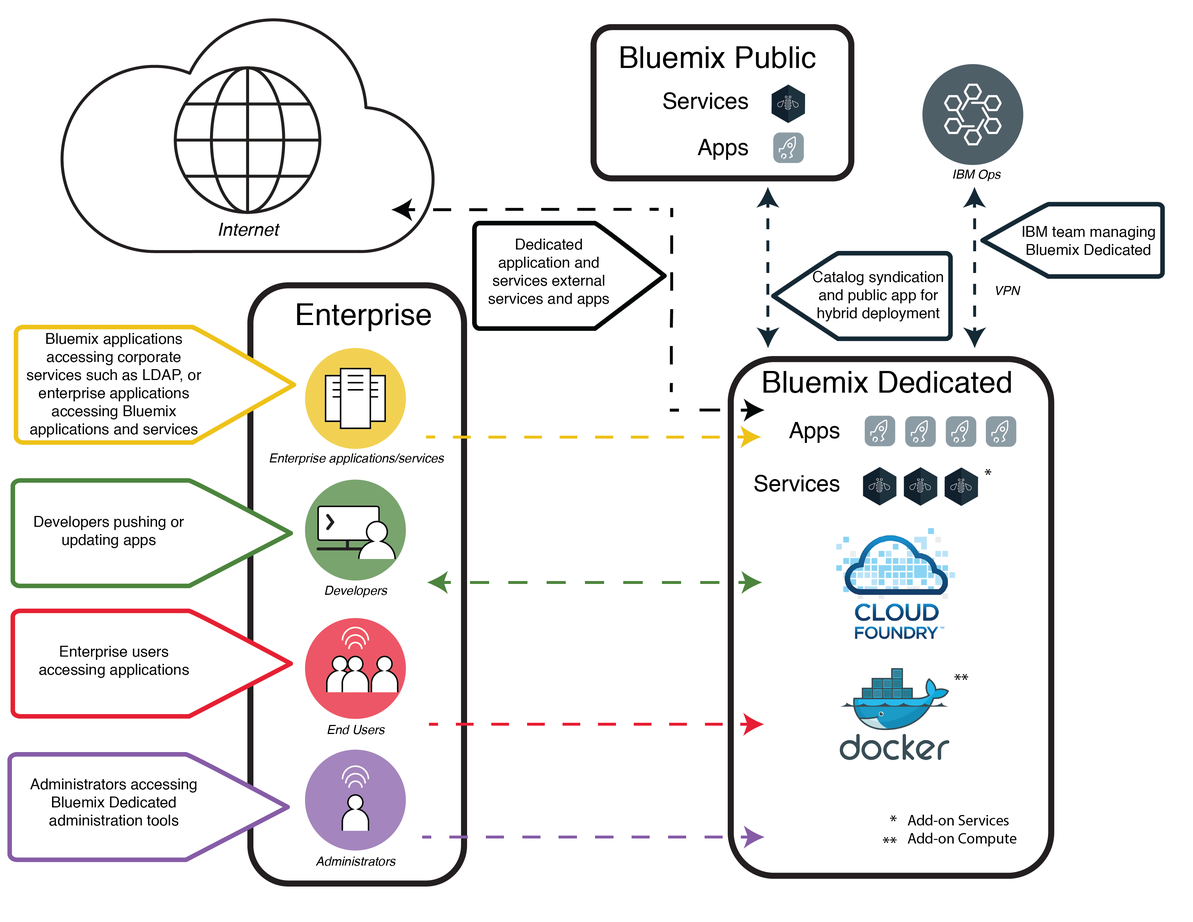
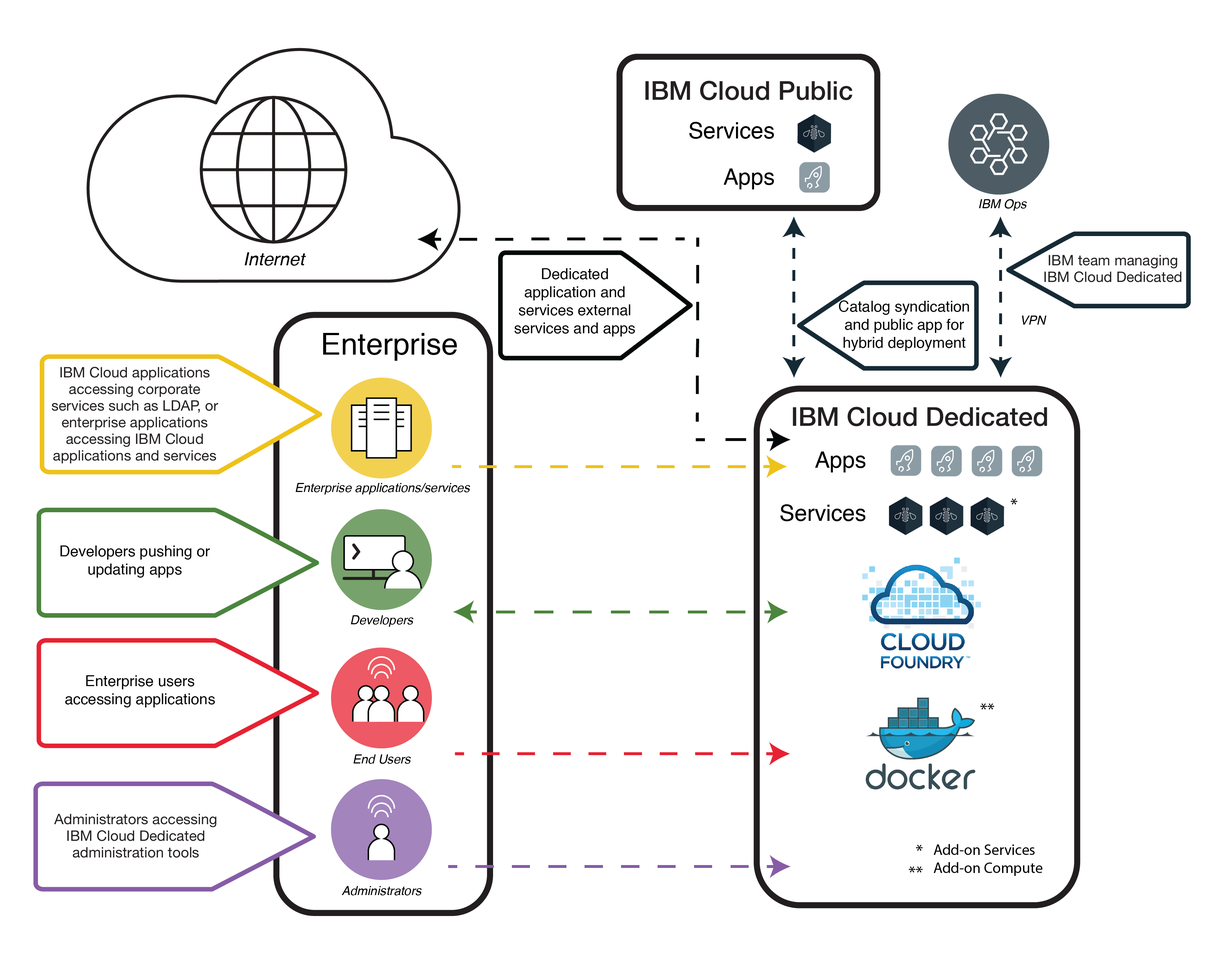
Rebrand

Changed region(s): [[0.0, 0.0, 0.9988, 0.9604], [0.4682, 0.8984, 0.5618, 0.9294], [0.0624, 0.2169, 0.0936, 0.2478]]

diff --git a/index.md b/index.md
@@ -6,7 +6,7 @@ copyright:
 
   years: 2015, 2017
 
-lastupdated: "2017-10-02"
+lastupdated: "2017-08-09"
 
 ---
 
@@ -16,7 +16,7 @@ lastupdated: "2017-10-02"
 {: #dedicated}
 
 
-{{site.data.keyword.Bluemix}} is an open-standards, cloud-based platform for building, running, and managing applications. With {{site.data.keyword.Bluemix_dedicated_notm}}, you get the power and simplicity of {{site.data.keyword.Bluemix_notm}}&mdash;in your own dedicated SoftLayer environment that is securely connected to both the {{site.data.keyword.Bluemix_notm}} Public environment and your own network.
+{{site.data.keyword.Bluemix}} is an open-standards, cloud-based platform for building, running, and managing applications. With {{site.data.keyword.Bluemix_dedicated_notm}}, you get the power and simplicity of {{site.data.keyword.Bluemix_notm}} &mdash; in your own dedicated SoftLayer environment that is securely connected to both the {{site.data.keyword.Bluemix_notm}} Public environment and your own network.
 {:shortdesc}
 
 All dedicated deployments of {{site.data.keyword.Bluemix_notm}} include the following benefits and features at no additional cost: VPN, private virtual local area network (VLAN), firewall, connectivity with your LDAP, ability to leverage existing on-premises databases and apps, 24/7 on-site security, dedicated hardware, and standard support.
@@ -33,14 +33,16 @@ In addition, there is a set of services and components that are included or opti
 | Included | [{{site.data.keyword.autoscaling}}](/docs/services/Auto-Scaling/index.html) | Dynamically increase or decrease the compute capacity of your application based on policies. With this service, you have unlimited use in your {{site.data.keyword.Bluemix_dedicated_notm}} environment. Note: Auto-scaling currently only works with Cloud Foundry runtimes |
 |Optional | [{{site.data.keyword.apiconnect_short}}](/docs/services/apiconnect/index.html) | {{site.data.keyword.apiconnect_long}} integrates {{site.data.keyword.APIM}} and IBM StrongLoop into a single offering that provides a comprehensive solution to create, run, manage, and enforce APIs and microservices. |
 |Optional | [{{site.data.keyword.cloudant}}](/docs/services/Cloudant/index.html#Cloudant) | {{site.data.keyword.cloudant}} provides access to a fully managed NoSQL JSON data layer that's always on. This service is compatible with CouchDB, and accessible through a simple to use HTTP interface for mobile and web application models. |
-|Optional | [{{site.data.keyword.containershort}}](/docs/containers/container_index.html) | Run Docker containers on {{site.data.keyword.Bluemix_dedicated_notm}}. Containers are virtual software objects that include all of the elements that an app needs to run. A container has the benefits of resource isolation and allocation, but is more portable and efficient than, for example, a virtual machine. For information about the hardware requirements, see [{{site.data.keyword.containershort}} in {{site.data.keyword.Bluemix_dedicated_notm}} and Bluemix Local](/docs/containers/container_ov.html#container_dl).|
+|Optional | [{{site.data.keyword.containershort}}](/docs/containers/container_index.html) | Run Docker containers on {{site.data.keyword.Bluemix_dedicated_notm}}. Containers are virtual software objects that include all of the elements that an app needs to run. A container has the benefits of resource isolation and allocation, but is more portable and efficient than, for example, a virtual machine. For information about the hardware requirements, see [{{site.data.keyword.containershort}} in {{site.data.keyword.Bluemix_dedicated_notm}} and {{site.data.keyword.Bluemix_local_notm}}](/docs/containers/container_ov.html#container_dl).|
 | Optional | [{{site.data.keyword.contdelivery_short}}](/docs/services/ContinuousDelivery/index.html) | Use {{site.data.keyword.contdelivery_short}} Dedicated to automate builds, unit tests, deployments, and more. Edit and push code through the rich web based IDE. Create toolchains to enable tool integrations that support development, deployment, and operations tasks. |
 | Optional | [{{site.data.keyword.dashdbshort}}](/docs/services/dashDB/dashDB.html) | IBM {{site.data.keyword.dashdbshort}} for Analytics is a fully managed SQL cloud database service, optimized for data warehouse and analytics workloads. IBM {{site.data.keyword.dashdbshort}} for Transactions is a fully managed SQL cloud database service, optimized for general purpose, web apps, and transactional workloads. |
+| Optional | [{{site.data.keyword.datacshort}}](/docs/services/DataCache/index.html#data_cache) | This service provides an in-memory data grid that supports distributed caching scenarios for your apps. Includes 50 GB of in-memory Cache. |
 | Optional | [Dedicated GitHub Enterprise](/docs/services/ghededicated/index.html) | {{site.data.keyword.ghe_long}} is the IBM Cloud-hosted and fully managed version of GitHub Enterprise that provides the social experience that developers love. This service is currently available exclusively to {{site.data.keyword.Bluemix_dedicated_notm}} environments. |
 | Optional (Beta) | [Logging](/docs/monitoringandlogging/cfapps_ml_logs_dedicated_ov.html#container_ml_logs_dedicated_ov) | Provides logs for your Cloud Foundry apps in your {{site.data.keyword.Bluemix_notm}} user interface and searchable logs and dashboards in Kibana. |
 | Optional | [{{site.data.keyword.messagehub}}](/docs/services/MessageHub/index.html#messagehub) | {{site.data.keyword.messagehub}} is a scalable, distributed, high throughput message bus to unite your on-premises and off-premises technologies. {{site.data.keyword.messagehub}} is based on Apache Kafka, which is a fast, scalable, and durable real-time messaging engine. |
-|Optional | [{{site.data.keyword.mobilepushshort}}](/docs/services/mobilepush/index.html) | {{site.data.keyword.mobilepushshort}} is a service that you can use to send notifications to iOS and Android device. Notifications can be targeted to all application users or to a specific set of users and devices using tags. You can administer devices, tags, and subscriptions. You can also use an SDK (software development kit) and Representational State Transfer (REST) application program interface (APIs) to further develop your client applications.|
+|Optional | [{{site.data.keyword.mobilepushshort}}](/docs/services/mobilepush/index.html) | {{site.data.keyword.mobilepushshort}} is a service that you can use to send notifications to iOS and Android device. Notifications can be targeted to all application users or to a specific set of users and devices using tags. You can administer devices, tags, and subscriptions. You can also use an SDK (Software Development Kit) and Representational State Transfer (REST) application program interface (APIs) to further develop your client applications.|
 |Optional | [{{site.data.keyword.SecureGateway}}](/docs/services/SecureGateway/secure_gateway.html) | The {{site.data.keyword.SecureGateway}} service provides a secure way to connect {{site.data.keyword.Bluemix_notm}} applications to remote locations on-premises or in the cloud.  |
+|Optional | [{{site.data.keyword.sescashort}}](/docs/services/SessionCache/index.html#session_cache) | For increased redundancy, {{site.data.keyword.sescashort}} provides a replica of a session stored in the cache. Therefore, in the event of a brownout or outage, your client application maintains access to the session in the cache. The service supports session caching scenarios for web and mobile applications. |
 | Optional | [{{site.data.keyword.iot_short}}](/docs/services/IoT/index.html) | This service lets your apps communicate with and consume data collected by your connected devices, sensors and gateways. The base offering permits running a private version of the {{site.data.keyword.iot_short}} within the dedicated environment with a capacity of 100,000 concurrently connected devices or applications and 1.6 TB of data exchange. |
 | Optional | [{{site.data.keyword.appserver_short}}](/docs/services/ApplicationServeronCloud/index.html) | IBM {{site.data.keyword.appserver_short}} for IBM {{site.data.keyword.Bluemix_notm}} is a service that facilitates quick setup on a pre-configured {{site.data.keyword.appserver_short}} Liberty, Traditional Network Deployment, or Traditional WebSphere Java EE instance in a hosted cloud environment on {{site.data.keyword.Bluemix_notm}}. |
 {: caption="Table 1. Dedicated Services" caption-side="top"}
@@ -57,6 +59,7 @@ There are optional components that are available for you to purchase to scale an
 |Dedicated {{site.data.keyword.apiconnect_short}} Enterprise 25 Million API Calls | An environment that permits running a private version of {{site.data.keyword.apiconnect_short}} within the dedicated environment with a capacity of 25 million API Calls a month targeted towards enterprise wide API projects. |
 |Dedicated {{site.data.keyword.apiconnect_short}} Enterprise 100 thousand API Calls increase | An extension of the {{site.data.keyword.apiconnect_short}} Enterprise environment to provide additional capacity of 100 thousand API Calls a month. |
 |Dedicated {{site.data.keyword.cloudant}}  1.6 TB capacity increase | Includes running a private version of the {{site.data.keyword.cloudantfull}} within the dedicated environment with a design capacity of 1.6 terabytes.  |
+|Dedicated {{site.data.keyword.datacshort}} and {{site.data.keyword.sescashort}} 50 GB capacity increase | An environment that permits deploying and running {{site.data.keyword.datacshort}} and {{site.data.keyword.sescashort}} instances up to a cumulative capacity of 50 GB. |
 |{{site.data.keyword.contdelivery_short}} Dedicated Instance | A private version of {{site.data.keyword.contdelivery_short}} running within a dedicated environment. The capacity is determined by {{site.data.keyword.contdelivery_short}} Dedicated Authorized User entitlements. |
 |{{site.data.keyword.contdelivery_short}} Dedicated Authorized User | Grants an Authorized User access to and for the use of a designated {{site.data.keyword.contdelivery_short}} Dedicated environment. Every user belonging to a {{site.data.keyword.Bluemix_notm}} Organization containing a {{site.data.keyword.contdelivery_short}} service instance must be authorized. |
 |Dedicated {{site.data.keyword.dashdbshort}} Enterprise 64.1 | One database per service instance on a dedicated server with 64 GB RAM, 16 vCPUs. Recommended for up to 1 TB of pre-load data, based on typical compression.  |
@@ -69,12 +72,12 @@ There are optional components that are available for you to purchase to scale an
 |{{site.data.keyword.Bluemix_dedicated_notm}} community services  | An environment that permits deploying and running  community services up to a total of 50 instances for each community service.  |
 |{{site.data.keyword.Bluemix_dedicated_notm}} {{site.data.keyword.cloudant}} Cluster Instance | This optional component includes a 3-node cluster for which you are responsible for providing the infrastructure, and the storage and compute capacity can be determined based on your specific needs. {{site.data.keyword.cloudant}} provides access to a fully managed NoSQL JSON data layer that's always on. This service is compatible with CouchDB, and accessible through a simple to use HTTP interface for mobile and web application models. |
 |IBM {{site.data.keyword.Bluemix_dedicated_notm}} {{site.data.keyword.messagehub}} | An environment that provides publish/subscribe messaging of up to 10 GB per partition, limited to 100 partitions. |
-|IBM Bluemix Dedicated {{site.data.keyword.mobilepushshort}} | An environment that permits deployment and execution of {{site.data.keyword.mobilepushshort}} instances with ability to accept 300 requests per second. |
+|IBM {{site.data.keyword.Bluemix_dedicated_notm}} {{site.data.keyword.mobilepushshort}} | An environment that permits deployment and execution of {{site.data.keyword.mobilepushshort}} instances with ability to accept 300 requests per second. |
 |{{site.data.keyword.iot_short}} Dedicated incremental increase | An environment increase that permits running a private version of the {{site.data.keyword.iot_short}} within the dedicated environment with a capacity of 100,000 concurrently connected devices or applications and 0.5 TB of data exchange. |
-|IBM {{site.data.keyword.appserver_short}} for {{site.data.keyword.Bluemix_notm}} - Dedicated Small| A pre-configured {{site.data.keyword.appserver_short}} Liberty, Traditional Network Deployment, or Traditional WebSphere Java EE instance in a hosted cloud environment on {{site.data.keyword.Bluemix_notm}} with 64 vCores, 128GB RAM and 1TB HDD per month. |
-|IBM {{site.data.keyword.appserver_short}} for {{site.data.keyword.Bluemix_notm}} - Dedicated Medium| A pre-configured {{site.data.keyword.appserver_short}} Liberty, Traditional Network Deployment, or Traditional WebSphere Java EE instance in a hosted cloud environment on {{site.data.keyword.Bluemix_notm}} with 128 vCores, 256GB RAM and 2TB HDD per month. |
-|IBM {{site.data.keyword.appserver_short}} for {{site.data.keyword.Bluemix_notm}} - Dedicated Large| A pre-configured {{site.data.keyword.appserver_short}} Liberty, Traditional Network Deployment, or Traditional WebSphere Java EE instance in a hosted cloud environment on {{site.data.keyword.Bluemix_notm}} with 256 vCores, 512GB RAM and 4TB HDD per month. |
-|IBM {{site.data.keyword.appserver_short}} for {{site.data.keyword.Bluemix_notm}} - Dedicated| A pre-configured {{site.data.keyword.appserver_short}} Liberty, Traditional Network Deployment, or Traditional WebSphere Java EE instance in a hosted cloud environment on {{site.data.keyword.Bluemix_notm}} with HDD Expansion and 1TB per month. |
+|IBM {{site.data.keyword.appserver_short}} for {{site.data.keyword.Bluemix_dedicated_notm}} Small| A pre-configured {{site.data.keyword.appserver_short}} Liberty, Traditional Network Deployment, or Traditional WebSphere Java EE instance in a hosted cloud environment on {{site.data.keyword.Bluemix_notm}} with 64 vCores, 128GB RAM and 1TB HDD per month. |
+|IBM {{site.data.keyword.appserver_short}} for {{site.data.keyword.Bluemix_dedicated_notm}} Medium| A pre-configured {{site.data.keyword.appserver_short}} Liberty, Traditional Network Deployment, or Traditional WebSphere Java EE instance in a hosted cloud environment on {{site.data.keyword.Bluemix_notm}} with 128 vCores, 256GB RAM and 2TB HDD per month. |
+|IBM {{site.data.keyword.appserver_short}} for {{site.data.keyword.Bluemix_dedicated_notm}} Large| A pre-configured {{site.data.keyword.appserver_short}} Liberty, Traditional Network Deployment, or Traditional WebSphere Java EE instance in a hosted cloud environment on {{site.data.keyword.Bluemix_notm}} with 256 vCores, 512GB RAM and 4TB HDD per month. |
+|IBM {{site.data.keyword.appserver_short}} for {{site.data.keyword.Bluemix_dedicated_notm}}| A pre-configured {{site.data.keyword.appserver_short}} Liberty, Traditional Network Deployment, or Traditional WebSphere Java EE instance in a hosted cloud environment on {{site.data.keyword.Bluemix_notm}} with HDD Expansion and 1TB per month. |
 {: caption="Table 2. Optional service components for purchase" caption-side="top"}
 {: #table02}
 
@@ -85,7 +88,7 @@ There are optional components that are available for you to purchase to scale an
 |Dedicated runtimes 16 GB capacity increase  | An extension of the runtimes environment to provide an extra 16 GB of runtime capacity. |
 |Dedicated Direct Link 1 Gbps capacity | A dedicated network link that connects directly to the appropriate {{site.data.keyword.BluSoftlayer}} network point of presence designed for data transfers of up to 1 Gbps. |
 |Dedicated Direct Link 10 Gbps capacity | A dedicated network link that connects directly to the appropriate {{site.data.keyword.BluSoftlayer}} network point of presence designed for data transfers of up to 10 Gbps. |
-|IBM Bluemix Dedicated Hardware Firewall - High Availability | A redundant 1 Gbps hardware firewall configured for protection for single, multiple, or all servers on same VLAN within the Dedicated environment. |
+|IBM {{site.data.keyword.Bluemix_dedicated_notm}} Hardware Firewall - High Availability | A redundant 1 Gbps hardware firewall configured for protection for single, multiple, or all servers on same VLAN within the Dedicated environment. |
 {: caption="Table 3. Optional platform add-on components for purchase" caption-side="top"}
 {: #table03}
 
@@ -96,7 +99,7 @@ There are optional components that are available for you to purchase to scale an
 
 {{site.data.keyword.Bluemix_dedicated_notm}} includes a private catalog that brings together approved services across your public, dedicated and local deployments. You can even publish and manage access to your own services through the {{site.data.keyword.Bluemix_notm}} catalog. You have the option to decide which public services meet the requirements for your business based on your data privacy and security criteria.
 
-If you have a private instance of the service for your dedicated environment, you see a "Dedicated" tag with the service names in your catalog. Similarly, if it is a custom service, meaning you used a service broker to create it, you see "Custom" listed with the service name. All other services listed that do not have a "dedicated" or "custom" tag are available by using syndication from {{site.data.keyword.Bluemix_notm}} Public. Syndicated services provide the function to create hybrid applications that consist of public and private services.
+If you have a private instance of the service for your dedicated environment, you see a `Dedicated` tag with the service names in your catalog. Similarly, if it is a custom service, meaning you used a service broker to create it, you see "Custom" listed with the service name. All other services listed that do not have a "dedicated" or "custom" tag are available by using syndication from {{site.data.keyword.Bluemix_notm}} Public. Syndicated services provide the function to create hybrid applications that consist of public and private services.
 
 |Service	|Available in US South region	|Available in Europe United Kingdom region |Available in Australian Sydney region|Available in Germany region|
 |:----------|:------------------------------|:------------------|:------------------|:------------------|
@@ -146,6 +149,7 @@ If you have a private instance of the service for your dedicated environment, yo
 **Note**: Third-party services are not included in the table. Check your catalog for third-party service options.
 
 
+
 ## {{site.data.keyword.Bluemix_dedicated_notm}} architecture
 {: #dedicatedarch}
 
@@ -158,7 +162,7 @@ Each {{site.data.keyword.Bluemix_dedicated_notm}} deployment is dedicated to a s
 Figure 1. Detailed {{site.data.keyword.Bluemix_dedicated_notm}} diagram default architecture
 {: #figure01}
 
-The significant architectureal components depicted in the previous architecture diagram include the following:
+The significant architectural components depicted in the previous architecture diagram include the following:
 
 <dl>
 <dt>{{site.data.keyword.IBM_notm}} Cloud</dt>
@@ -245,7 +249,7 @@ You can expect a process similar to the following list for the initial deploymen
 <li>You can start using your dedicated instance that is monitored by the IBM operations team in order to respond to alerts.</li>
 </ol>
 
-After your {{site.data.keyword.Bluemix_notm}} instance is set up, you can monitor and manage your {{site.data.keyword.Bluemix_notm}} instance by using the Administration page. For more information, see [Managing {{site.data.keyword.Bluemix_notm}} Local and Dedicated](../admin/index.html#mng). For information about upgrades and maintenance, see [Maintaining your dedicated instance](index.html#maintaindedicated).
+After your {{site.data.keyword.Bluemix_notm}} instance is set up, you can monitor and manage your {{site.data.keyword.Bluemix_notm}} instance by using the Administration page. For more information, see [Managing {{site.data.keyword.Bluemix_local_notm}} and {{site.data.keyword.Bluemix_dedicated_notm}}](../admin/index.html#mng). For information about upgrades and maintenance, see [Maintaining your dedicated instance](index.html#maintaindedicated).
 
 ##Roles and responsibilities
 {: #rolesresponsibilities}
@@ -266,7 +270,7 @@ The following list shows the customer roles and responsibilities that you assign
 <dt>**DevOps focal**</dt>
 <dd>Works with the IBM representative to plan and apply the maintenance updates that are needed for the {{site.data.keyword.Bluemix_notm}} platform, services, and runtimes. The person assigned to this role also works with the IBM representative on the configuration of your {{site.data.keyword.Bluemix_dedicated_notm}} instance.</dd>
 <dt>Operations focal</dt>
-<dd>Works with the IBM support team as needed once the environment is up and running. This is someone with Superuser access to the Administration console who can approve and schedule maintenance updates for the Bluemix environment and be available at all times in the event of a critical incident. The person assigned to this role must have technical knowledge of the Bluemix environment and be in a position to reach others within company that have expert skills in an area that might be affected including networking or security, for example.</dd>
+<dd>Works with the IBM support team as needed once the environment is up and running. This is someone with Superuser access to the Administration console who can approve and schedule maintenance updates for the {{site.data.keyword.Bluemix_notm}} environment and be available at all times in the event of a critical incident. The person assigned to this role must have technical knowledge of the {{site.data.keyword.Bluemix_notm}} environment and be in a position to reach others within company that have expert skills in an area that might be affected including networking or security, for example.</dd>
 </dl>
 
 Your customer representatives work with IBM specialists that work together to ensure that you always have the support that you need. You can upgrade to the Premium support tier to work with a dedicated Client Success Manager (CSM) for your account. For more information about the different support tiers, see [Contacting support](../support/index.html#contacting-support).The CSM completes the following types of tasks:
@@ -392,7 +396,7 @@ If there is a reported issue following a maintenance update, you agree with {{si
 
 ### Customer-detected issues
 
-If you identify an issue that needs attention from IBM support and operations, you can contact support by using a few different methods. For information about how to contact support, see [Contacting support](../support/index.html#contacting-bluemix-support-local). Depending on the issue, you, IBM, or both work together to fix the issue.
+If you identify an issue that needs attention from IBM support and operations, you can contact support by using a few different methods. For information about how to contact support, see [Contacting support](../support/index.html#contacting-bluemix-support-dedicated-local). Depending on the issue, you, IBM, or both work together to fix the issue.
 
 ### IBM-detected critical incidents
 
@@ -404,18 +408,18 @@ If you want to integrate your notifications with a web service that supports web
 
 Figure 2. Incident response process
 
-Depending on the issue, you, IBM, or both of you work together to fix the issue. If you have a question regarding the incident, or if you need an IBM representative to help you resolve the issue, then you can open a support ticket. For information about how to contact support, see [Contacting support](/docs/support/index.html#contacting-bluemix-support-local).
+Depending on the issue, you, IBM, or both of you work together to fix the issue. If you have a question regarding the incident, or if you need an IBM representative to help you resolve the issue, then you can open a support ticket. For information about how to contact support, see [Contacting support](/docs/support/index.html#contacting-bluemix-support-dedicated-local).
 
-**Note**: Severity 1 support tickets are monitored 24 hours a day, 7 days a week. Other tickets are processed from Sunday 10:00 pm GMT through Saturday 12:00 am GMT. For more information about severity of support tickets and working with support, see <a href="/docs/support/index.html#contacting-bluemix-support-local">Contacting support</a>.
+**Note**: Severity 1 support tickets are monitored 24 hours a day, 7 days a week. Other tickets are processed from Sunday 10:00 pm GMT through Saturday 12:00 am GMT. For more information about severity of support tickets and working with support, see <a href="/docs/support/index.html#contacting-bluemix-support-dedicated-local">Contacting support</a>.
 
 
 ## Disaster recovery for {{site.data.keyword.Bluemix_dedicated_notm}}
 {: #dr}
 
-Disaster recovery for {{site.data.keyword.Bluemix_short}} Dedicated can be set up similarly to the way that it works when you use {{site.data.keyword.Bluemix_short}} Public. {{site.data.keyword.Bluemix_short}} Public provides a continuously available platform for innovation with multiple fail-safe measures to ensure that your orgs, spaces, and apps are always available. Deploying apps to multiple geographic regions enables continuous availability that protects against unplanned, simultaneous loss of multiple hardware or software components, or the loss of an entire data center, so that even in the event of a natural disaster in one geographic location, your distributed {{site.data.keyword.Bluemix_notm}} Public app instances in alternate geographic locations will be available.
+Disaster recovery for {{site.data.keyword.Bluemix_dedicated_notm}} can be set up similarly to the way that it works when you use {{site.data.keyword.Bluemix_short}} Public. {{site.data.keyword.Bluemix_short}} Public provides a continuously available platform for innovation with multiple fail-safe measures to ensure that your orgs, spaces, and apps are always available. Deploying apps to multiple geographic regions enables continuous availability that protects against unplanned, simultaneous loss of multiple hardware or software components, or the loss of an entire data center, so that even in the event of a natural disaster in one geographic location, your distributed {{site.data.keyword.Bluemix_notm}} Public app instances in alternate geographic locations will be available.
 {: shortdesc}
 
-Disaster recovery for {{site.data.keyword.Bluemix_short}} Dedicated is made possible through continuous availability for your apps, the inherent high availability of the platform, and the ability to restore your instance in the event of a failure. You are responsible for enabling continuous availability of your apps by deploying to multiple regions. High availability is built in at the platform level through  technologies included in Cloud Foundry and other components. And, you can work together with IBM to ensure your data is properly backed up in the case that you need to restore your instance at any time.
+Disaster recovery for {{site.data.keyword.Bluemix_dedicated_notm}} is made possible through continuous availability for your apps, the inherent high availability of the platform, and the ability to restore your instance in the event of a failure. You are responsible for enabling continuous availability of your apps by deploying to multiple regions. High availability is built in at the platform level through  technologies included in Cloud Foundry and other components. And, you can work together with IBM to ensure your data is properly backed up in the case that you need to restore your instance at any time.
 
 ### Enabling continuous availability for {{site.data.keyword.Bluemix_dedicated_notm}}
 {: #enabling}
